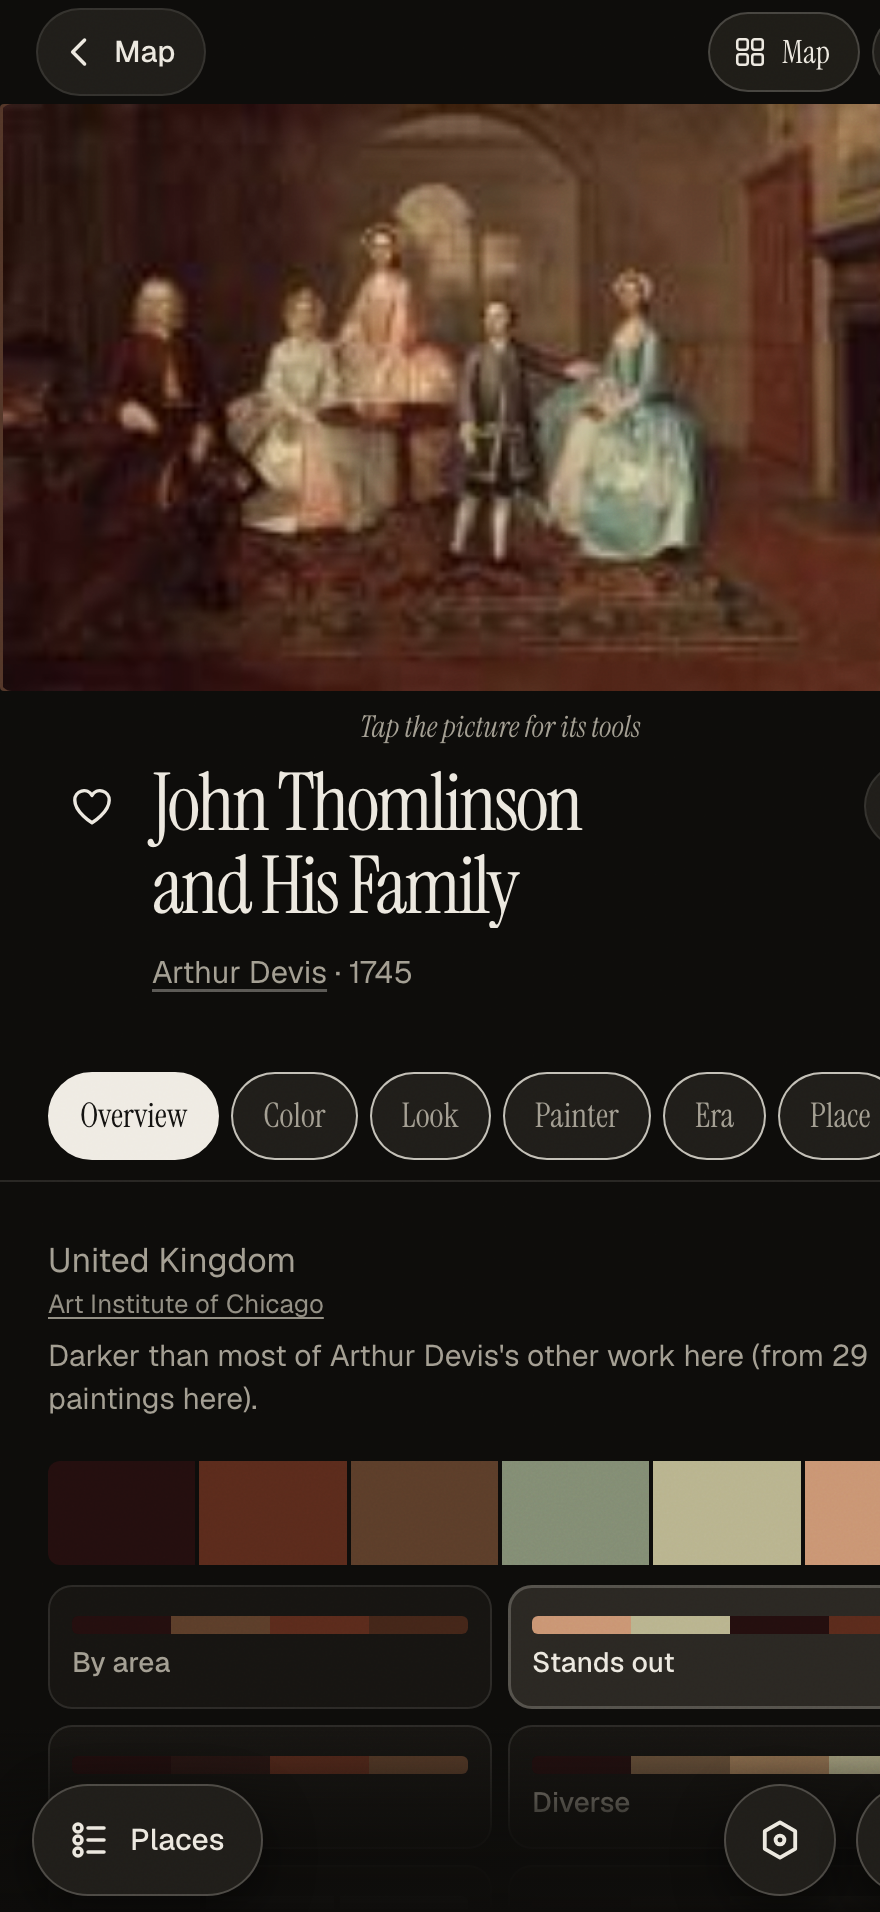
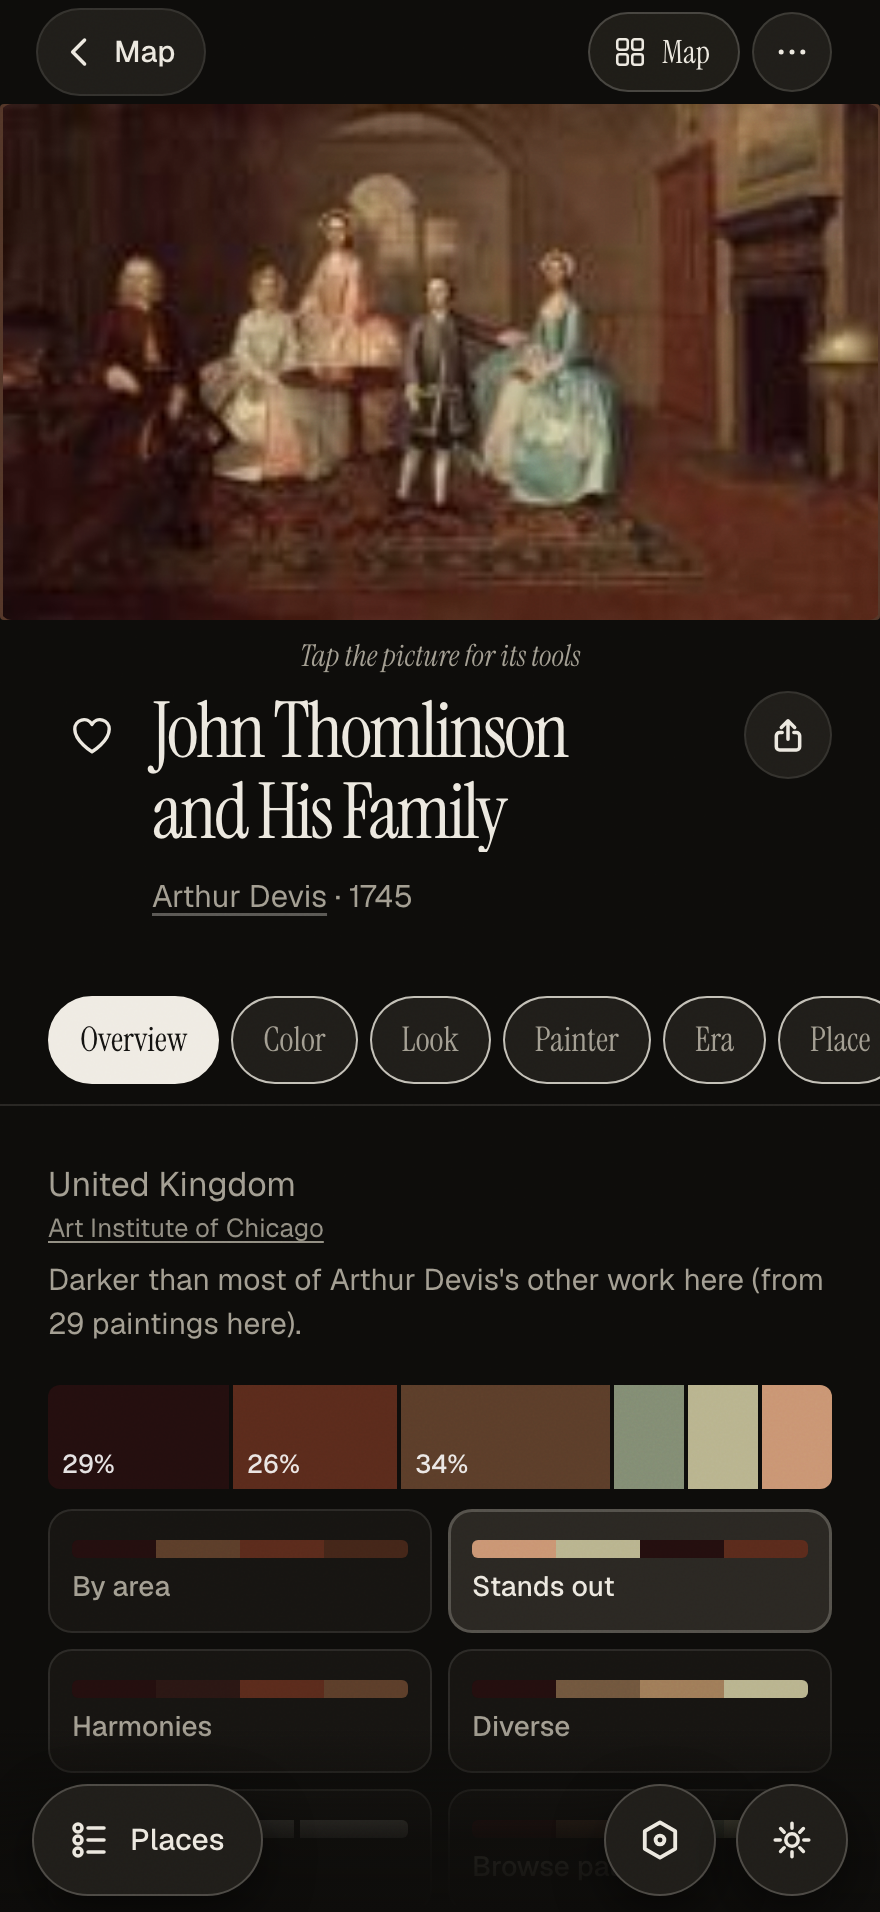
Gradient order for area-width strips too: painting strip (proportional), harmony cards, Studio photo strip, painting wiki page; Stands out keeps its meaningful order

diff --git a/js/gallery.js b/js/gallery.js
@@ -1542,8 +1542,8 @@ function glPage(i, d, fromHex, tol) {
   };
   const curSet = () => {
     const st = modeSet(mode, curK) || modeSet("out", curK);
-    // equal-width strips read as a gradient (js/palorder.js); area widths, picked and live combinations keep their own order
-    return eqW && mode !== "pick" && !plvGens[mode] && !st.harmony && st.pal && st.pal.length > 2 && typeof palOrderItems === "function" ? { ...st, pal: palOrderItems(st.pal) } : st;
+    // every strip reads as a gradient (js/palorder.js; widths still follow area); picked and live combinations keep their own order
+    return mode !== "pick" && mode !== "out" && !plvGens[mode] && !st.harmony && st.pal && st.pal.length > 2 && typeof palOrderItems === "function" ? { ...st, pal: palOrderItems(st.pal) } : st;
   };
   const curPal = () => curSet().pal;
   // a fresh re-roll for this mode: a new seed, kept in a short history so Shuffle never loses an earlier result
@@ -1789,7 +1789,7 @@ function glPage(i, d, fromHex, tol) {
     listHost.innerHTML = shown.length ? shown.map((c, j) => `
       <div class="gl-hcard" data-hc="${j}">
         <div class="gl-hcard-top"><b>${esc(c.label)}</b><span>${c.fitPct}% fit</span></div>
-        <div class="palette gl-strip gl-hcard-strip">${c.pal.map(p => `<button class="pal" data-swatch="${p.h}" style="--c:${p.h};flex:${eqW ? 1 : (Math.max(p.share, .08) * 100).toFixed(1)}" data-ink="${ink(p.h)}" aria-label="${esc(nameOf(p.h).n)}"><span>${eqW ? "" : p.share < .005 ? "<1%" : Math.round(p.share * 100) + "%"}</span></button>`).join("")}</div>
+        <div class="palette gl-strip gl-hcard-strip">${palOrderItems(c.pal).map(p => `<button class="pal" data-swatch="${p.h}" style="--c:${p.h};flex:${eqW ? 1 : (Math.max(p.share, .08) * 100).toFixed(1)}" data-ink="${ink(p.h)}" aria-label="${esc(nameOf(p.h).n)}"><span>${eqW ? "" : p.share < .005 ? "<1%" : Math.round(p.share * 100) + "%"}</span></button>`).join("")}</div>
         <div class="gl-hcard-names">${c.pal.map(p => esc(nameOf(p.h).n)).join(" · ")}</div>
         <div class="gl-hcard-acts"><button class="gl-pa-btn" data-hcfull="${j}">Full screen</button><button class="gl-pa-btn" data-hcfind="${j}">Find paintings</button><button class="gl-pa-btn" data-hcedit="${j}">Edit</button><button class="gl-pa-btn solid" data-hcsave="${j}">Save palette</button></div>
       </div>`).join("") : `<p class="fine">No ${harmFilter === "all" ? "clear relation" : harmCardName(harmFilter).toLowerCase()} shows up among this painting's own colors. Try Shuffle, or another type.</p>`;

diff --git a/js/studio.js b/js/studio.js
@@ -408,7 +408,7 @@ function palPhotoView(p) {
       cap: picks.length ? "Colors you took from the photo. Tap it for more, a swatch to open its page." : "Press and drag over the photo to take a color, up to 12." };
     return glModeSet(m, pool, k, null);
   };
-  const curSet = () => editedPal ? { pal: editedPal, max: 24, fixed: true, cap: "Edited by hand." } : (modeSet(mode, curK) || modeSet("out", curK));
+  const curSet = () => editedPal ? { pal: editedPal, max: 24, fixed: true, cap: "Edited by hand." } : (() => { const st = modeSet(mode, curK) || modeSet("out", curK); return mode !== "pick" && mode !== "out" && !st.harmony && st.pal && st.pal.length > 2 && typeof palOrderItems === "function" ? { ...st, pal: palOrderItems(st.pal) } : st; })();
   const curPal = () => curSet().pal;
   // "Diverse" (David's palette-engine brief, 2026-10-09: farthest-point sampling in OKLab, guarantees every
   // distinct hue family in this photo's pool above a small floor gets a seat) is a photo-agnostic mode, same as

diff --git a/js/explore.js b/js/explore.js
@@ -931,7 +931,7 @@ function ptSimilarByPaletteHTML(n) {
     `<button class="aw-tie" data-ptgo="${esc(x.id)}"><b>${esc(x.title)}</b><span>${k} color${k === 1 ? "" : "s"} in common${x.artist ? " · " + esc(x.artist) : ""}</span></button>`).join("")}</div>`;
 }
 function paintingPage(n) {
-  const pal = n.palette || [];
+  const pal = typeof palOrderItems === "function" ? palOrderItems(n.palette || []) : (n.palette || []);
   const el = show(`
     ${artTop(n)}
     ${n.img ? `<div class="ptg"><img id="pimg" src="${esc(n.img)}" alt="${esc(n.title)} by ${esc(n.artist)}"><canvas id="pmask"></canvas></div>` : ""}
